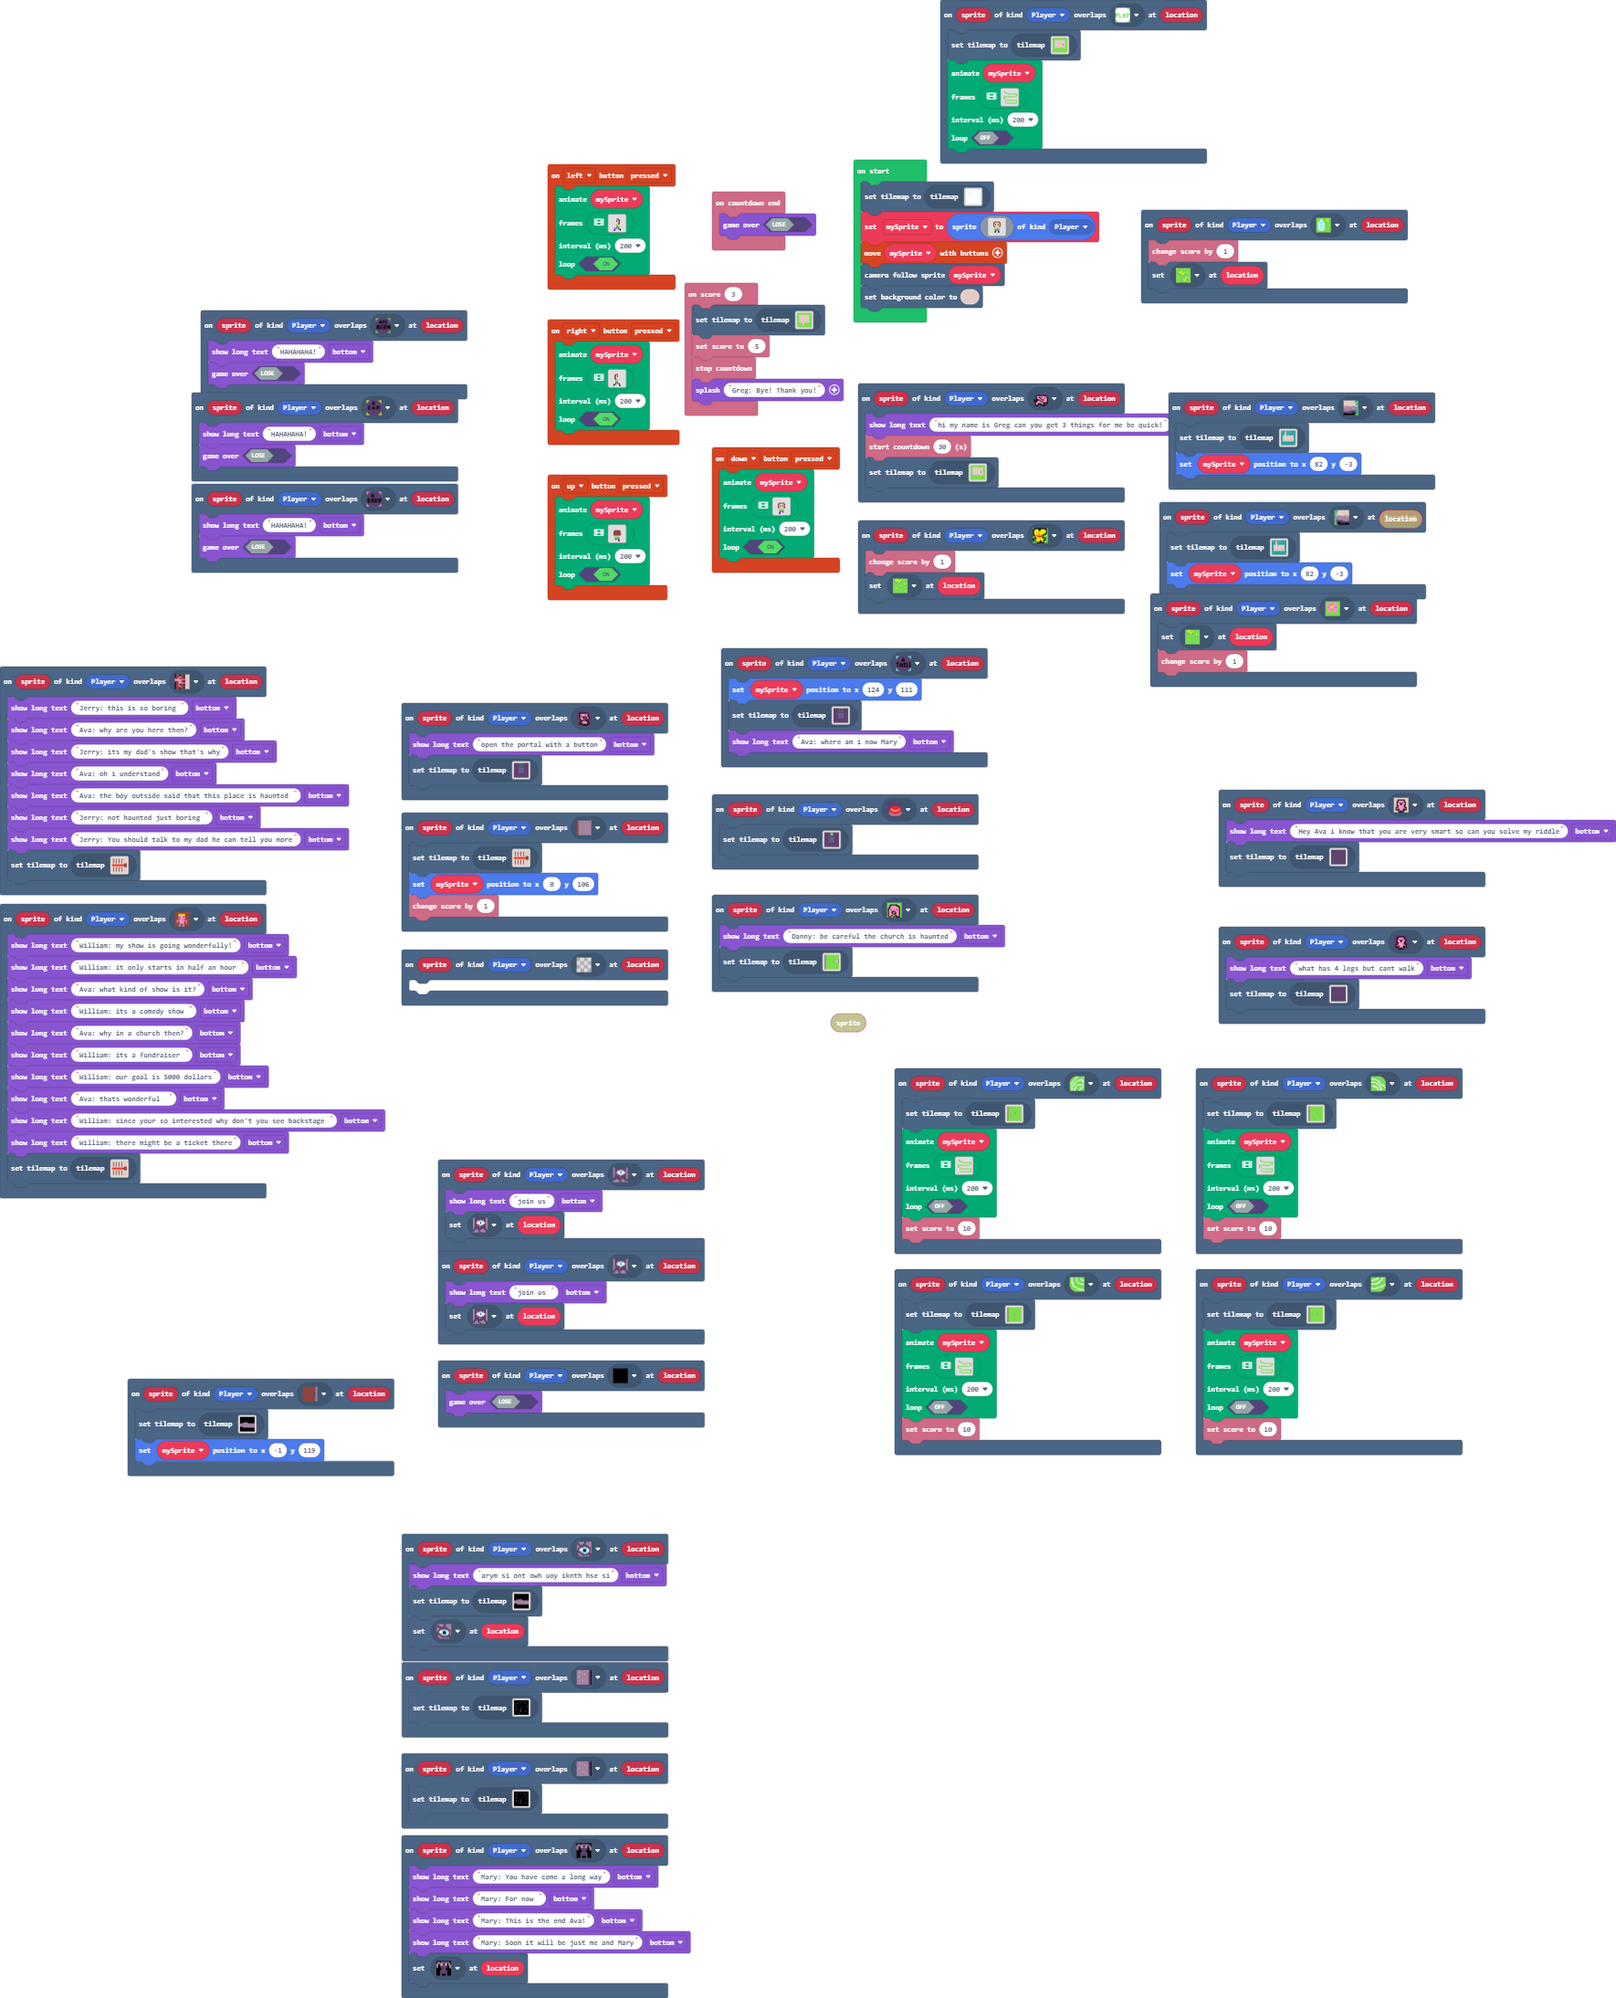
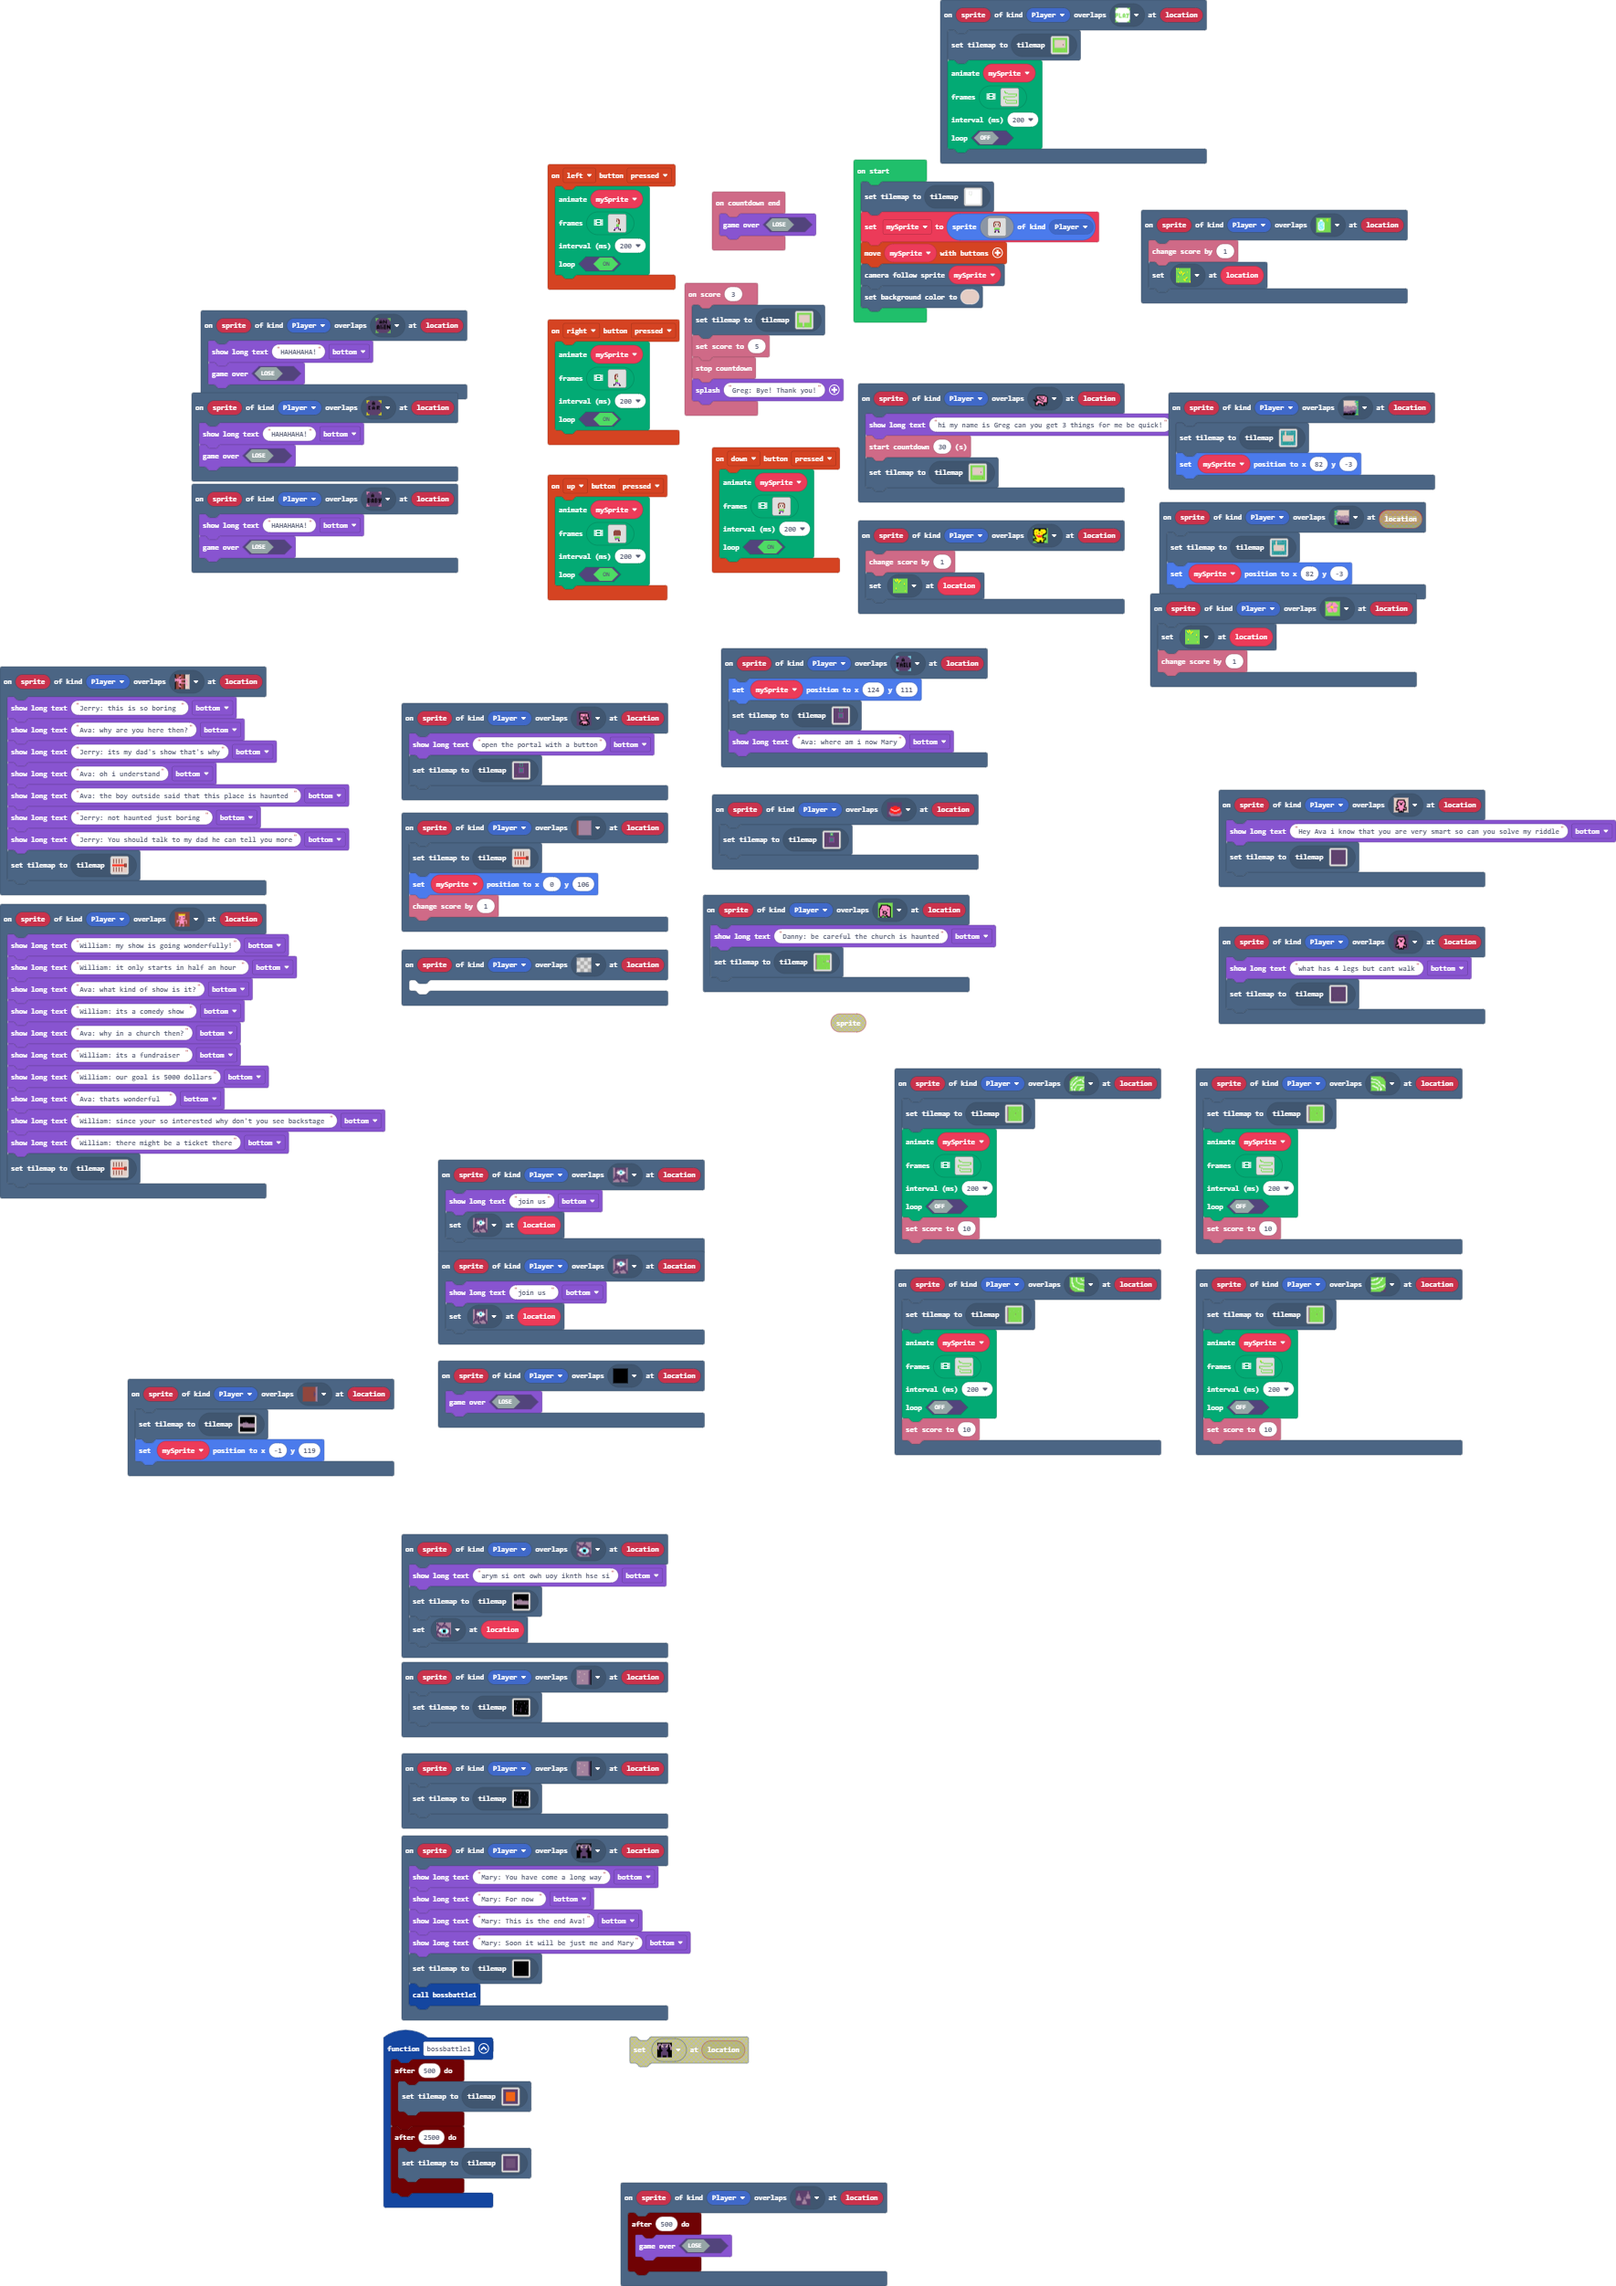
revew and commit annnnnnn

diff --git a/tilemap.g.ts b/tilemap.g.ts
@@ -189,6 +189,12 @@ namespace myTiles {
     //% fixedInstance jres blockIdentity=images._tile
     export const tile94 = image.ofBuffer(hex``);
     //% fixedInstance jres blockIdentity=images._tile
+    export const tile95 = image.ofBuffer(hex``);
+    //% fixedInstance jres blockIdentity=images._tile
+    export const tile96 = image.ofBuffer(hex``);
+    //% fixedInstance jres blockIdentity=images._tile
+    export const tile97 = image.ofBuffer(hex``);
+    //% fixedInstance jres blockIdentity=images._tile
     export const tile92 = image.ofBuffer(hex``);
 
     helpers._registerFactory("tilemap", function(name: string) {
@@ -1010,6 +1016,63 @@ namespace myTiles {
 . . . . . . . . . . . . . . . . 
 . . . . . . . . . . . . . . . . 
 `, [myTiles.transparency16,myTiles.tile89,myTiles.tile73,myTiles.tile90,myTiles.tile91,myTiles.tile92,myTiles.tile93], TileScale.Sixteen);
+            case "level54":
+            case "level54":return tiles.createTilemap(hex`1000100001010101010101010101010101010101010101010101010101010101010101010101010101010101010101010101010101010101010101010101010101010101010101010101010101010101010101010101010101010101010101010101010101010101010101010101010101010101010101010101010101010101010101010101010101010101010101010101010101010101010101010101010101010101010101010101010101010101010101010101010101010101010101010101010101010101010101010101010101010101010101010101010101010101010101010101010101010101010101010101010101010101010101010101010101010101`, img`
+. . . . . . . . . . . . . . . . 
+. . . . . . . . . . . . . . . . 
+. . . . . . . . . . . . . . . . 
+. . . . . . . . . . . . . . . . 
+. . . . . . . . . . . . . . . . 
+. . . . . . . . . . . . . . . . 
+. . . . . . . . . . . . . . . . 
+. . . . . . . . . . . . . . . . 
+. . . . . . . . . . . . . . . . 
+. . . . . . . . . . . . . . . . 
+. . . . . . . . . . . . . . . . 
+. . . . . . . . . . . . . . . . 
+. . . . . . . . . . . . . . . . 
+. . . . . . . . . . . . . . . . 
+. . . . . . . . . . . . . . . . 
+. . . . . . . . . . . . . . . . 
+`, [myTiles.transparency16,myTiles.tile92], TileScale.Sixteen);
+            case "level52":
+            case "level52":return tiles.createTilemap(hex`1000100002020202020202020202020202020202020202020202020202020202020202020202020202020202020202020202020202020201010101010101010101020202020202010101010101010101010202020202020101010101010101010102020202020201010101010101010101020202020202010101010101010101010202020202020101010101010101010102020202020201010101010101010101020202020202010101010101010101010202020202020101010101010101010102020202020201010101010101010101020202020202020202020202020202020202020202020202020202020202020202020202020202020202020202020202020202`, img`
+. . . . . . . . . . . . . . . . 
+. . . . . . . . . . . . . . . . 
+. . . . . . . . . . . . . . . . 
+. . . . . . . . . . . . . . . . 
+. . . . . . . . . . . . . . . . 
+. . . . . . . . . . . . . . . . 
+. . . . . . . . . . . . . . . . 
+. . . . . . . . . . . . . . . . 
+. . . . . . . . . . . . . . . . 
+. . . . . . . . . . . . . . . . 
+. . . . . . . . . . . . . . . . 
+. . . . . . . . . . . . . . . . 
+. . . . . . . . . . . . . . . . 
+. . . . . . . . . . . . . . . . 
+. . . . . . . . . . . . . . . . 
+. . . . . . . . . . . . . . . . 
+`, [myTiles.transparency16,myTiles.tile95,myTiles.tile96], TileScale.Sixteen);
+            case "level53":
+            case "level53":return tiles.createTilemap(hex`1000100002020202020202020202020202020202020202020202020202020202020202020202020202020202020202020202020202020201010101010101010101020202020202010101010101010101010202020202020101010101010101010102020202020201010101010101010101020202020202010101010101010101010202020202020101010101010101010102020202020201010101010101010101020202020202010101010101010101010202020202020101010101010101010102020202020201010101010101010101020202020202020202020202020202020202020202020202020202020202020202020202020202020202020202020202020202`, img`
+. . . . . . . . . . . . . . . . 
+. . . . . . . . . . . . . . . . 
+. . . . . . . . . . . . . . . . 
+. . . . . . . . . . . . . . . . 
+. . . . . . . . . . . . . . . . 
+. . . . . . . . . . . . . . . . 
+. . . . . . . . . . . . . . . . 
+. . . . . . . . . . . . . . . . 
+. . . . . . . . . . . . . . . . 
+. . . . . . . . . . . . . . . . 
+. . . . . . . . . . . . . . . . 
+. . . . . . . . . . . . . . . . 
+. . . . . . . . . . . . . . . . 
+. . . . . . . . . . . . . . . . 
+. . . . . . . . . . . . . . . . 
+. . . . . . . . . . . . . . . . 
+`, [myTiles.transparency16,myTiles.tile97,myTiles.tile96], TileScale.Sixteen);
         }
         return null;
     })
@@ -1203,6 +1266,12 @@ namespace myTiles {
             case "tile93":return tile93;
             case "copyyyyyyyyyyyyyn":
             case "tile94":return tile94;
+            case "myTile91":
+            case "tile95":return tile95;
+            case "myTile92":
+            case "tile96":return tile96;
+            case "myTile93":
+            case "tile97":return tile97;
             case "myTile89":
             case "tile92":return tile92;
         }

diff --git a/main.ts b/main.ts
@@ -369,7 +369,8 @@ scene.onOverlapTile(SpriteKind.Player, assets.tile`myTile90`, function (sprite, 
     game.showLongText("Mary: For now ", DialogLayout.Bottom)
     game.showLongText("Mary: This is the end Ava!", DialogLayout.Bottom)
     game.showLongText("Mary: Soon it will be just me and Mary", DialogLayout.Bottom)
-    tiles.setTileAt(location, assets.tile`copyyyyyyyyyyyyyn`)
+    tiles.setCurrentTilemap(tilemap`level54`)
+    bossbattle1()
 })
 scene.onOverlapTile(SpriteKind.Player, assets.tile`myTile21`, function (sprite, location) {
     game.showLongText("open the portal with a button", DialogLayout.Bottom)
@@ -558,12 +559,25 @@ controller.right.onEvent(ControllerButtonEvent.Pressed, function () {
     true
     )
 })
+function bossbattle1 () {
+    timer.after(500, function () {
+        tiles.setCurrentTilemap(tilemap`level52`)
+    })
+    timer.after(2500, function () {
+        tiles.setCurrentTilemap(tilemap`level53`)
+    })
+}
 scene.onOverlapTile(SpriteKind.Player, assets.tile`myTile84`, function (sprite, location) {
     tiles.setCurrentTilemap(tilemap`level50`)
 })
 scene.onOverlapTile(SpriteKind.Player, assets.tile`myTile8`, function (sprite, location) {
     tiles.setCurrentTilemap(tilemap`level2`)
     mySprite.setPosition(82, -3)
+})
+scene.onOverlapTile(SpriteKind.Player, assets.tile`myTile93`, function (sprite, location) {
+    timer.after(500, function () {
+        game.gameOver(false)
+    })
 })
 controller.down.onEvent(ControllerButtonEvent.Pressed, function () {
     animation.runImageAnimation(
